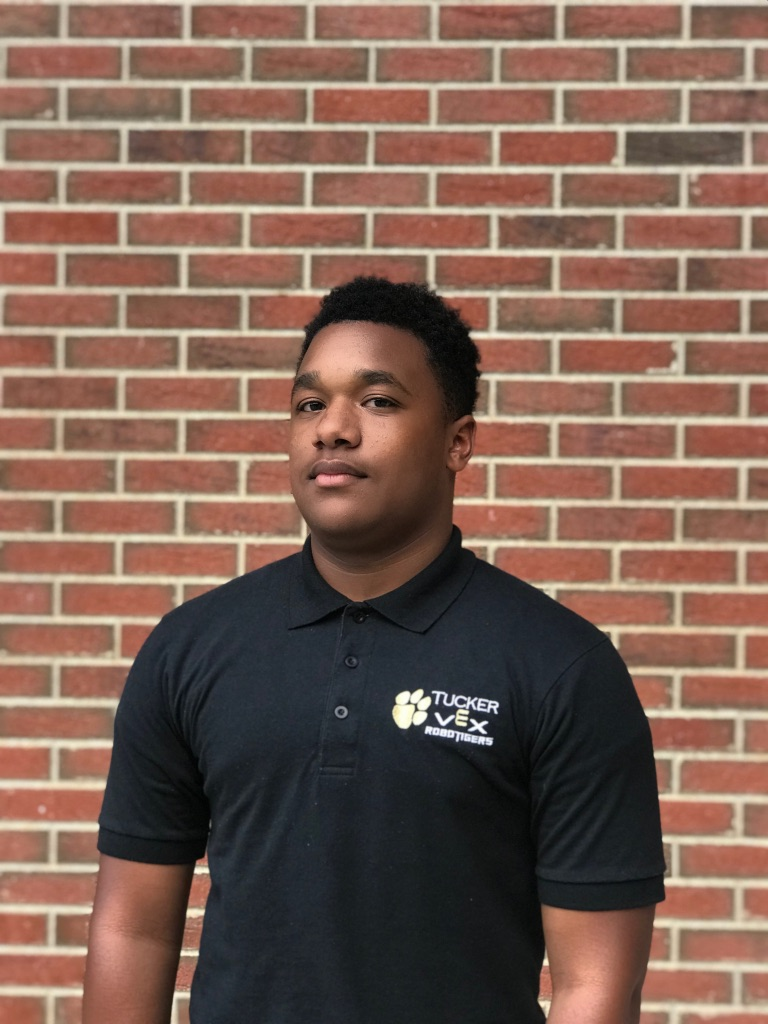
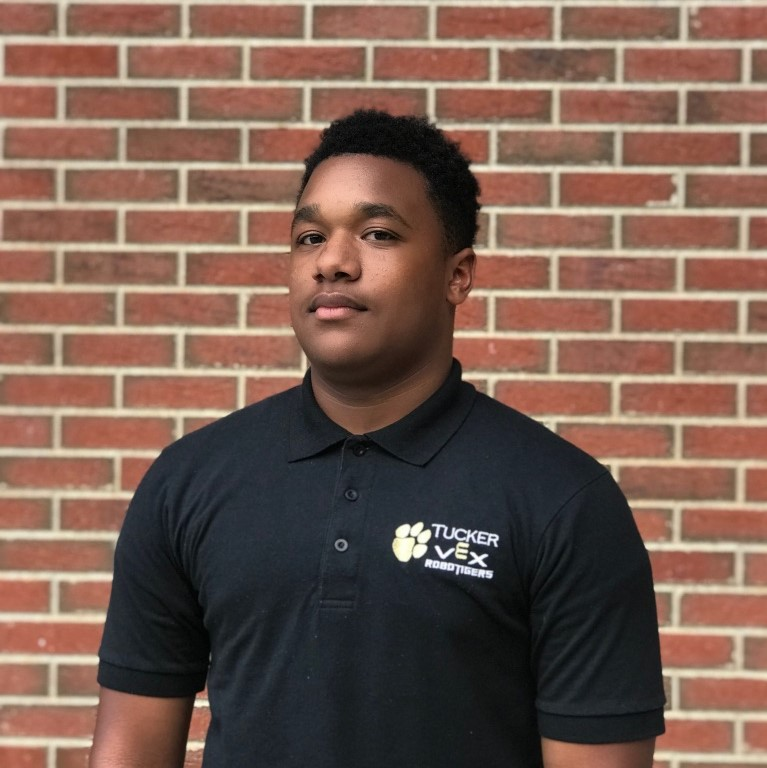
Crop A team photos, add robotImage and teamImage to each page

diff --git a/src/Components/TeamsPage/Team1320C/Team1320C.js b/src/Components/TeamsPage/Team1320C/Team1320C.js
@@ -3,27 +3,28 @@ import TeamTemplate from '../TeamTemplate/TeamTemplate'
 
 const data = {
   teamNumber: '1320C',
+  teamImage: '/Images/Teams/1320C/Team.jpg',
+  robotImage: '/Images/Teams/1320C/Robot.jpg',
   overviewDesc: 'Lorem ipsum dolor sit amet consectetur adipisicing elit. Accusamus deserunt minima corrupti cupiditate doloremque quae, consectetur eum! Nisi quidem perspiciatis eaque, dolor explicabo ullam natus sed ratione facilis dolores architecto? Neque repellendus debitis distinctio nulla nobis totam sint quam amet rerum cupiditate molestias at blanditiis sapiente, labore illum quisquam sunt minus nostrum aperiam iste ea voluptatibus perferendis. Autem, nostrum. Ipsum?',
   teamMembers: [
     {
       name: 'Mamadou Ly',
       job: 'Captain / Builder / Driver',
-      //desc: 'Lorem ipsum dolor sit amet consectetur, adipisicing elit. Odio eveniet delectus esse necessitatibus alias, possimus, exercitationem voluptatum molestias sint et eos! Iusto nisi est eaque quis labore voluptatum rerum mollitia.'
-      desc: "Mamadou Ly is the Captian, Driver and Builder of 1320C. His wonderful building skills are matched by his passion and dedication to robotics and the program that he has worked so hard to build up from when he was in middle school. As the leader of one of Dekalb's strongest teams, he has spearheaded new records and has brought the success of the Tucker RoboTigers to new heights. Mamadou is a STEM student and hopes to study biomedical engineering in college to help better the world through technology and medicine. If his passion for changing the world is anything like his dedication to robotics, the world will be in safe hands.",
-      src: '/Images/Teams/1320B/Mamadou.jpg'
+      desc: "Mamadou's wonderful building skills are matched by his passion and dedication to robotics and the program that he has worked to build up. He has spearheaded new records and has brought the success of the Tucker Robotigers to new heights. Mamadou is a STEM student and hopes to study biomedical engineering in college. If his passion for changing the world is anything like his dedication to robotics, the world will be in safe hands.",
+      src: '/Images/Teams/1320C/Mamadou.jpg'
 
     },
     {
       name: 'Sam Torbert',
       job: 'Programmer',
       desc: 'Sam is the programmer for 1320C. He is one of the most innovative and spectacular members of the Tucker Robotics Program. Sam is a STEM senior and hopes to study aerospace engineering in the Fall. He is able to solve many problems through programming to allow the driver to focus on the game and is constantly re-iterating to create greater efficiency within the Robotics program.',
-      src: '/Images/Teams/1320B/Sam.jpg'
+      src: '/Images/Teams/1320C/Sam.jpg'
     },
     {
       name: 'James Bunting',
       job: 'Notebook Manager',
       desc: 'James Bunting is the primary drafter, daily notebook manager, and CAD specialist. He hopes to study mechanical engineering at Georgia Tech and promotes community education in STEAM.',
-      src: '/Images/Teams/1320B/James.jpg'
+      src: '/Images/Teams/1320C/James.jpg'
     },
     {
       name: 'Deborah Sodiya',
@@ -216,6 +217,8 @@ class Team1320C extends Component {
     return (
       <TeamTemplate
         teamNumber={data.teamNumber}
+        teamImage={data.teamImage}
+        robotImage={data.robotImage}
         overviewDesc={data.overviewDesc}
         teamMembers={data.teamMembers}
         robotSkillRank={this.state.robotSkillRank}

diff --git a/src/Components/TeamsPage/Team1320B/Team1320B.js b/src/Components/TeamsPage/Team1320B/Team1320B.js
@@ -3,6 +3,8 @@ import TeamTemplate from '../TeamTemplate/TeamTemplate'
 
 const data = {
   teamNumber: '1320B',
+  teamImage: '/Images/Teams/1320B/Team.jpg',
+  robotImage: '/Images/Teams/1320B/Robot.jpg',
   overviewDesc: 'Lorem ipsum dolor sit amet consectetur adipisicing elit. Accusamus deserunt minima corrupti cupiditate doloremque quae, consectetur eum! Nisi quidem perspiciatis eaque, dolor explicabo ullam natus sed ratione facilis dolores architecto? Neque repellendus debitis distinctio nulla nobis totam sint quam amet rerum cupiditate molestias at blanditiis sapiente, labore illum quisquam sunt minus nostrum aperiam iste ea voluptatibus perferendis. Autem, nostrum. Ipsum?',
   teamMembers: [
     {
@@ -196,6 +198,8 @@ class Team1320B extends Component {
     return (
       <TeamTemplate
         teamNumber={data.teamNumber}
+        teamImage={data.teamImage}
+        robotImage={data.robotImage}
         overviewDesc={data.overviewDesc}
         teamMembers={data.teamMembers}
         robotSkillRank={this.state.robotSkillRank}

diff --git a/src/Components/TeamsPage/Team1320D/Team1320D.js b/src/Components/TeamsPage/Team1320D/Team1320D.js
@@ -3,6 +3,8 @@ import TeamTemplate from '../TeamTemplate/TeamTemplate'
 
 const data = {
   teamNumber: '1320D',
+  teamImage: '/Images/Teams/1320D/Team.jpg',
+  robotImage: '/Images/Teams/1320D/Robot.jpg',
   overviewDesc: 'Lorem ipsum dolor sit amet consectetur adipisicing elit. Accusamus deserunt minima corrupti cupiditate doloremque quae, consectetur eum! Nisi quidem perspiciatis eaque, dolor explicabo ullam natus sed ratione facilis dolores architecto? Neque repellendus debitis distinctio nulla nobis totam sint quam amet rerum cupiditate molestias at blanditiis sapiente, labore illum quisquam sunt minus nostrum aperiam iste ea voluptatibus perferendis. Autem, nostrum. Ipsum?',
   teamMembers: [
     {
@@ -214,6 +216,8 @@ class Team1320D extends Component {
     return (
       <TeamTemplate
         teamNumber={data.teamNumber}
+        teamImage={data.teamImage}
+        robotImage={data.robotImage}
         overviewDesc={data.overviewDesc}
         teamMembers={data.teamMembers}
         robotSkillRank={this.state.robotSkillRank}

diff --git a/src/Components/TeamsPage/Team1320E/Team1320E.js b/src/Components/TeamsPage/Team1320E/Team1320E.js
@@ -3,6 +3,8 @@ import TeamTemplate from '../TeamTemplate/TeamTemplate'
 
 const data = {
   teamNumber: '1320E',
+  teamImage: '/Images/Teams/1320E/Team.jpg',
+  robotImage: '/Images/Teams/1320E/Robot.jpg',
   overviewDesc: 'Lorem ipsum dolor sit amet consectetur adipisicing elit. Accusamus deserunt minima corrupti cupiditate doloremque quae, consectetur eum! Nisi quidem perspiciatis eaque, dolor explicabo ullam natus sed ratione facilis dolores architecto? Neque repellendus debitis distinctio nulla nobis totam sint quam amet rerum cupiditate molestias at blanditiis sapiente, labore illum quisquam sunt minus nostrum aperiam iste ea voluptatibus perferendis. Autem, nostrum. Ipsum?',
   teamMembers: [
     {
@@ -214,6 +216,8 @@ class Team1320E extends Component {
     return (
       <TeamTemplate
         teamNumber={data.teamNumber}
+        teamImage={data.teamImage}
+        robotImage={data.robotImage}
         overviewDesc={data.overviewDesc}
         teamMembers={data.teamMembers}
         robotSkillRank={this.state.robotSkillRank}

diff --git a/src/Components/TeamsPage/Team1320A/Team1320A.js b/src/Components/TeamsPage/Team1320A/Team1320A.js
@@ -10,13 +10,13 @@ const data = {
     {
       name: 'Tanjid Mitul',
       job: 'Captain / Builder / Programmer / Driver',
-      desc: 'Tanjid is a natural leader who helps organize the team. He is very dedicated and almost always works on VEX, even in his spare time.',
+      desc: 'Tanjid is a natural leader who helps organize the team. He is very dedicated and is almost always working on VEX, even during his spare time.',
       src: '/Images/Teams/1320A/Tanjid.jpg'
     },
     {
       name: 'Chris Maclin',
       job: 'Builder',
-      desc: 'Chris is extremely hard-working and dedicated. He frequently makes necessary adjustments to the robot and inputs innovative ideas.',
+      desc: 'Chris is extremely hard-working and dedicated. He frequently makes necessary adjustments to the robot and inputs innovative design ideas to further improve the performance of te robot.',
       src: '/Images/Teams/1320A/Chris.jpg'
     },
     {
